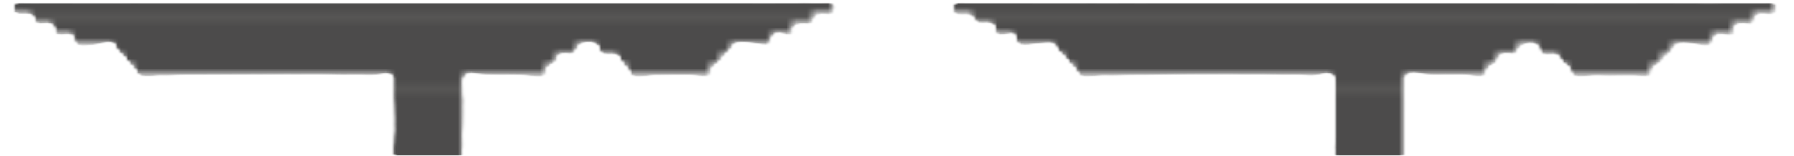
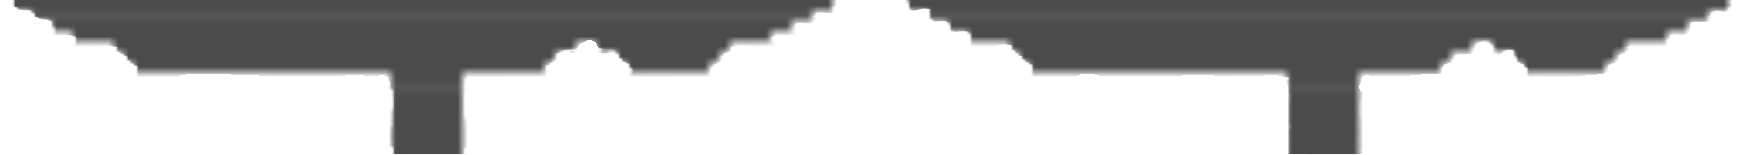
adicionei  base do level 2

diff --git a/src/levels/level_2.py b/src/levels/level_2.py
@@ -1,6 +1,7 @@
 import pygame
 from src.objects.player_stan import Player
-from config import HEIGHT
+from src.objects.platforms import Platform
+from config import *
 
 def run(screen):
     clock = pygame.time.Clock()
@@ -18,8 +19,15 @@ def run(screen):
         player.update(keys)
 
         screen.fill((100, 200, 100)) 
-        background = pygame.image.load('level2/cenario level 2.png').convert()
+        background = pygame.image.load("assets/images/level2/cenario level 2.jpeg").convert()
+        background = pygame.transform.scale(background, (WIDTH, HEIGHT))
+
+        platforms = pygame.sprite.Group()
+        p1 = Platform("assets/images/level2/base.png", 0, HEIGHT-60, width=800, height=100)
+        platforms.add(p1)
+
         screen.blit(background, (0, 0)) 
+        platforms.draw(screen)
         player.draw(screen)
         pygame.display.flip()
         clock.tick(60)
